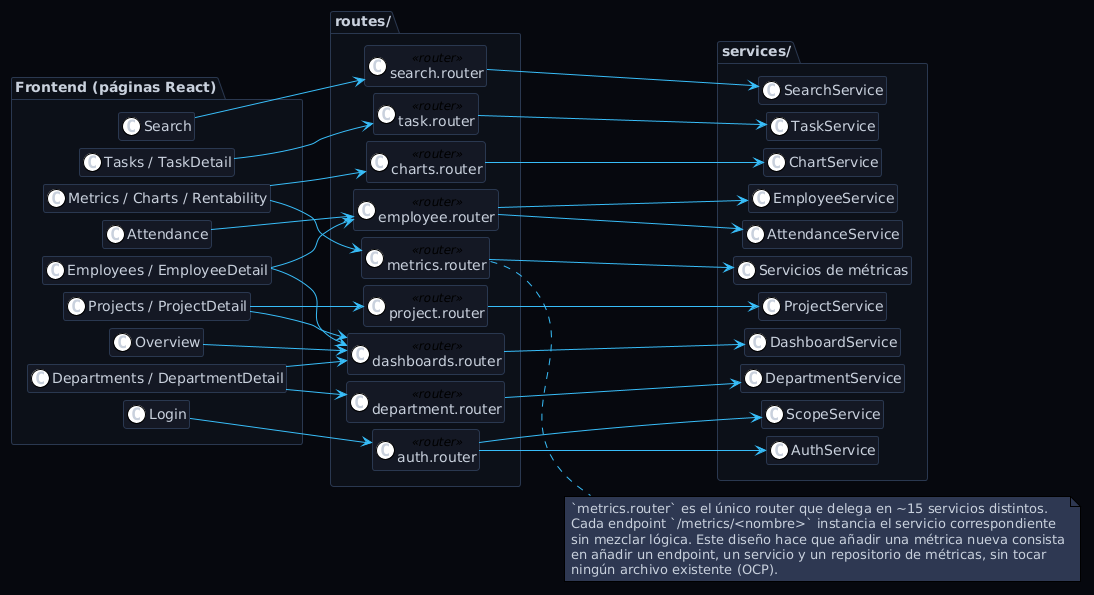
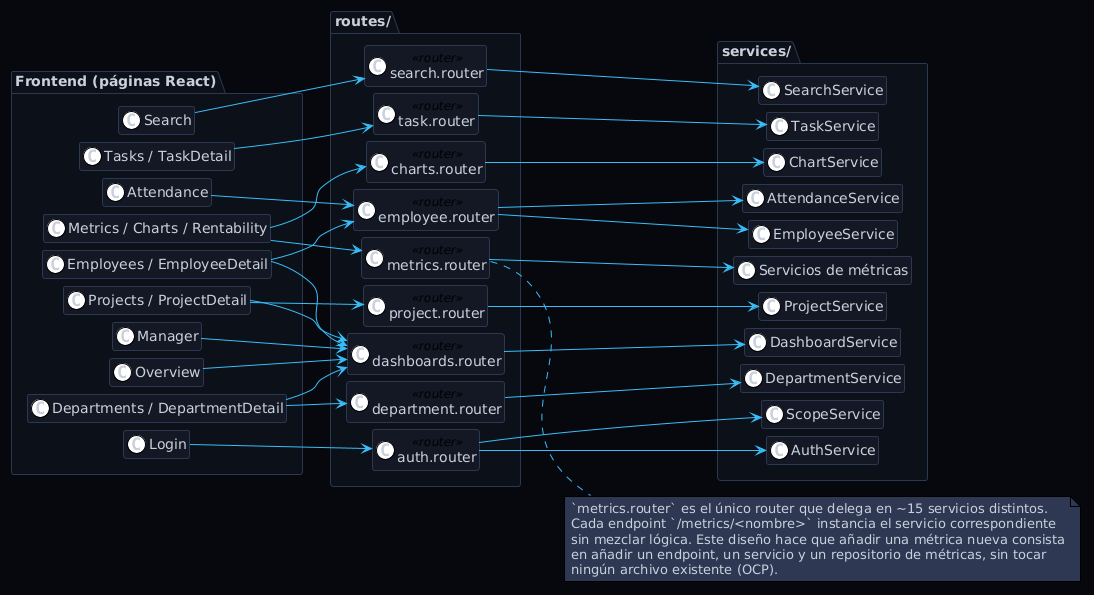
actyualización de los diagramas de contexto y el detalle del caso de uso 21

diff --git a/Estudiantes/cesar-garcia-eguiguren/Capítulo-2/DisciplinaDeRequisitos.md b/Estudiantes/cesar-garcia-eguiguren/Capítulo-2/DisciplinaDeRequisitos.md
@@ -52,7 +52,7 @@ Los CU de resumen son el panel analítico de cada entidad: agregan indicadores, 
 
 ### 1.3 Lista de casos de uso
 
-El sistema se organiza en **10 paquetes funcionales** que agrupan los **21 casos de uso** identificados. Los CUs marcados con ★ son exclusivos del rol *Director*; el resto están disponibles para ambos actores (*Director* y *Responsable*) con el filtrado de ámbito que corresponda a cada uno.
+El sistema se organiza en **9 paquetes funcionales** que agrupan los **21 casos de uso** identificados. Los CUs marcados con ★ son exclusivos del rol *Director*; el resto están disponibles para ambos actores (*Director* y *Responsable*) con el filtrado de ámbito que corresponda a cada uno.
 
 | Paquete | CU | Nombre | Director | Responsable |
 |---|---|---|---|---|
@@ -118,39 +118,39 @@ Ambos actores comparten la mayoría de los casos de uso. El Director tiene acces
 
 #### Prioridad Alta (A) — MVP imprescindible
 
-| CU | Nombre | Justificación |
-|---|---|---|
-| CU-01 | Autenticarse | Sin autenticación no hay sistema. Puerta de entrada. |
-| CU-02 | Listar empleados | Dato base para todos los paneles de empleado. |
-| CU-03 | Resumen de empleado | Vista canónica de consulta operativa diaria. |
-| CU-06 | Listar proyectos | Dato base para paneles de proyecto y rentabilidad. |
-| CU-07 | Resumen de proyecto | Vista canónica sobre el estado de un proyecto. |
-| CU-08 | Listar tareas | Consulta operativa de alta frecuencia. |
-| CU-10 | Consultar métrica operativa | Indicadores que guían la decisión diaria. |
-| CU-13 | Rentabilidad financiera ★ | Indicador económico global del Director. |
-| CU-17 | Guardar snapshot | Permite persistir el estado para seguimiento histórico. |
+| CU | Nombre | Criticidad | Valor de negocio | Frecuencia | Riesgo técnico | Justificación |
+|---|---|:---:|:---:|:---:|:---:|---|
+| CU-01 | Autenticarse | 3 | 3 | 3 | 2 | Sin autenticación no hay sistema. Puerta de entrada. |
+| CU-02 | Listar empleados | 3 | 2 | 3 | 1 | Dato base para todos los paneles de empleado. |
+| CU-03 | Resumen de empleado | 2 | 3 | 3 | 2 | Vista canónica de consulta operativa diaria. |
+| CU-06 | Listar proyectos | 3 | 2 | 3 | 1 | Dato base para paneles de proyecto y rentabilidad. |
+| CU-07 | Resumen de proyecto | 2 | 3 | 3 | 2 | Vista canónica sobre el estado de un proyecto. |
+| CU-08 | Listar tareas | 2 | 3 | 3 | 2 | Consulta operativa de alta frecuencia. |
+| CU-10 | Consultar métrica operativa | 2 | 3 | 3 | 3 | Indicadores que guían la decisión diaria. |
+| CU-13 | Rentabilidad financiera ★ | 2 | 3 | 2 | 3 | Indicador económico global del Director. |
+| CU-21 | Consultar carga de trabajo de equipo | 2 | 3 | 2 | 2 | Control de la carga de trabajo de los empleados. |
+| CU-17 | Guardar snapshot | 1 | 3 | 2 | 2 | Permite persistir el estado para seguimiento histórico. |
 
 #### Prioridad Media (M) — complementarios
 
-| CU | Nombre | Justificación |
-|---|---|---|
-| CU-04 | Listar departamentos | Exploración por estructura organizativa. |
-| CU-05 | Resumen de departamento | Soporte al análisis de carga agregada. |
-| CU-09 | Detalle de tarea | Profundización puntual sobre una tarea. |
-| CU-11 | Gráficos analíticos | Análisis visual complementario. |
-| CU-21 | Consultar carga de trabajo de equipo | Control de la carga de trabajo de los empleados |
-| CU-12 | Asistencia vs imputaciones | Control de coherencia horaria. |
-| CU-14 | Líneas analíticas ★ | Desglose contextual sobre rentabilidad. |
-| CU-18 | Listar snapshots | Consumo del histórico persistido. |
-| CU-19 | Detalle de snapshot | Reconstrucción de vistas guardadas. |
+| CU | Nombre | Criticidad | Valor de negocio | Frecuencia | Riesgo técnico | Justificación |
+|---|---|:---:|:---:|:---:|:---:|---|
+| CU-04 | Listar departamentos | 2 | 2 | 2 | 1 | Exploración por estructura organizativa. |
+| CU-05 | Resumen de departamento | 2 | 2 | 2 | 2 | Soporte al análisis de carga agregada. |
+| CU-09 | Detalle de tarea | 1 | 2 | 2 | 1 | Profundización puntual sobre una tarea. |
+| CU-11 | Gráficos analíticos | 1 | 2 | 2 | 2 | Análisis visual complementario. |
+| CU-12 | Asistencia vs imputaciones | 1 | 2 | 2 | 2 | Control de coherencia horaria. |
+| CU-14 | Líneas analíticas ★ | 1 | 2 | 1 | 1 | Desglose contextual sobre rentabilidad. |
+| CU-18 | Listar snapshots | 1 | 2 | 1 | 1 | Consumo del histórico persistido. |
+| CU-19 | Detalle de snapshot | 1 | 2 | 1 | 1 | Reconstrucción de vistas guardadas. |
 
 #### Prioridad Baja (B) — opcionales
 
-| CU | Nombre | Justificación |
-|---|---|---|
-| CU-15 | Búsqueda global | Atajo de navegación; no imprescindible. |
-| CU-16 | Cerrar sesión | Deseable pero no bloqueante. |
-| CU-20 | Eliminar snapshot | Operación excepcional; uso puntual. |
+| CU | Nombre | Criticidad | Valor de negocio | Frecuencia | Riesgo técnico | Justificación |
+|---|---|:---:|:---:|:---:|:---:|---|
+| CU-15 | Búsqueda global | 1 | 1 | 2 | 1 | Atajo de navegación; no imprescindible. |
+| CU-16 | Cerrar sesión | 1 | 1 | 1 | 1 | Deseable pero no bloqueante. |
+| CU-20 | Eliminar snapshot | 1 | 1 | 1 | 1 | Operación excepcional; uso puntual. |
 
 ---
 
@@ -662,8 +662,33 @@ Todos los casos de uso están documentados en detalle en: [Disciplina de Requisi
 
 ---
 
-### CU-21 - Consultar Carga de Trabajo del Equipo
+### CU-21 – Consultar Distribución de Carga del Equipo
 
+| Campo | Valor |
+|---|---|
+| **Actores** | Director, Responsable |
+| **Precondición** | CU-01 completado. |
+| **Postcondición** | El actor conoce la distribución de carga de su equipo y puede navegar al perfil de cualquier empleado. |
+
+![Diagrama de flujo](./imagenes/CdU/flujoCU21.png)
+
+**Flujo principal:**
+1. El actor accede al panel de gestión de equipo.
+2. El sistema calcula la distribución del equipo según el ámbito del actor y clasifica a cada empleado en una de cuatro categorías: sobrecargado, normal, subcargado o sin tareas asignadas.
+3. El sistema muestra cinco tarjetas numéricas clicables: total de empleados, sobrecargados, en carga normal, subcargados y sin tareas.
+4. El sistema muestra el ranking de los cinco empleados con mayor porcentaje de carga y un gráfico de barras horizontal con la distribución por estado.
+5. El actor puede filtrar por departamento para acotar el análisis a un área concreta.
+6. El actor selecciona una tarjeta de estado y el sistema despliega el listado paginado de empleados en ese estado, con su porcentaje de carga, horas pendientes y número de tareas pendientes.
+7. El actor puede ordenar el listado por cualquier columna y navegar por las páginas de resultados.
+8. El actor selecciona un empleado del listado para acceder a su resumen detallado.
+
+**Flujos alternativos:**
+- `FA-01`: No existen empleados en el estado seleccionado → estado vacío con mensaje informativo.
+- `FA-02`: Filtro de departamento activo → el sistema recalcula toda la distribución limitándola a los empleados del departamento elegido.
+
+**Observación:** Este caso de uso tiene su propia página dedicada (`/manager`) y actúa como punto de entrada a la supervisión de equipo. Se diferencia de CU-10 (Consultar Métrica Operativa) en que no forma parte del catálogo de métricas parametrizadas, sino que ofrece una vista de gestión agregada y navegable del estado del equipo, con paginación server-side. El cálculo de carga que subyace es el mismo que CU-10.4 (Workload individual), pero aplicado sobre todos los empleados del ámbito simultáneamente.
+
+**Relaciones:** Navega a CU-03 (al seleccionar un empleado del listado).
 
 ---
 ## 4. Prototipar Casos de Uso

diff --git a/Estudiantes/cesar-garcia-eguiguren/Capítulo-3/Análisis.md b/Estudiantes/cesar-garcia-eguiguren/Capítulo-3/Análisis.md
@@ -52,14 +52,14 @@ La única excepción a esta restricción es el subsistema de capturas, que persi
 
 Esta sección describe qué sucede en cada caso de uso desde el punto de vista del actor. Para cada CU se indica el actor que lo inicia, los datos de entrada que proporciona y la información que el sistema devuelve. Siguiendo el principio RUP de trazabilidad entre disciplinas, en esta fase se profundiza en el flujo principal del caso de uso, preparando el terreno para el diseño detallado que se abordará en el capítulo siguiente.
 
-Tras la aplicación de los principios de consolidación RUP documentados en el Capítulo 2, el sistema cuenta con **20 casos de uso** organizados en 10 paquetes funcionales.
+Tras la aplicación de los principios de consolidación RUP documentados en el Capítulo 2, el sistema cuenta con **21 casos de uso** organizados en 9 paquetes funcionales.
 
 ### 2.1 Actores
 
 | Actor | CUs disponibles | Descripción |
 |---|---|---|
-| **Director** | 20 | Acceso total. Ve datos de toda la organización: todos los empleados, proyectos, departamentos y métricas financieras. |
-| **Responsable** | 17 | Acceso restringido a su ámbito (empleados de su equipo, proyectos que gestiona, departamentos a su cargo). No puede eliminar snapshots ni acceder a los casos de uso exclusivos de Rentabilidad Financiera (CU-13 y CU-14). |
+| **Director** | 21 | Acceso total. Ve datos de toda la organización: todos los empleados, proyectos, departamentos y métricas financieras. |
+| **Responsable** | 18 | Acceso restringido a su ámbito (empleados de su equipo, proyectos que gestiona, departamentos a su cargo). No puede eliminar snapshots ni acceder a los casos de uso exclusivos de Rentabilidad Financiera (CU-13 y CU-14). |
 
 ### 2.2 Casos de uso del sistema
 
@@ -110,8 +110,8 @@ Tras la aplicación de los principios de consolidación RUP documentados en el C
 
 **CU-10 — Consultar métrica operativa**
 - Actor: Director, Responsable
-- Entrada: nombre de la métrica (productividad, cumplimiento, WIP, carga de trabajo, riesgo, retrabajo, estimación, lead time, tiempo por estado, tareas canceladas, tiempo por prioridad, eficiencia de proyecto, distribución por cliente…) y los parámetros contextuales que esa métrica requiera (empleado, proyecto, departamento, rango de fechas, modo solo tareas raíz)
-- Salida: indicador calculado con su representación y gráficos de apoyo específicos de la métrica seleccionada. El modo carga de trabajo admite parámetros individuales (empleado concreto) o agregados de equipo (departamento o sin parámetro). El sistema verifica el ámbito del actor sobre los parámetros antes de calcular.
+- Entrada: nombre de la métrica (productividad, cumplimiento, WIP, carga de trabajo individual, riesgo, retrabajo, estimación, lead time, tiempo por estado, tareas canceladas, tiempo por prioridad, eficiencia de proyecto, distribución por cliente…) y los parámetros contextuales que esa métrica requiera (empleado, proyecto, departamento, rango de fechas, modo solo tareas raíz)
+- Salida: indicador calculado con su representación y gráficos de apoyo específicos de la métrica seleccionada. El sistema verifica el ámbito del actor sobre los parámetros antes de calcular.
 
 **CU-11 — Consultar gráficos analíticos**
 - Actor: Director, Responsable
@@ -163,7 +163,12 @@ Tras la aplicación de los principios de consolidación RUP documentados en el C
 - Entrada: identificador de la captura y tipo de colección
 - Salida: confirmación de eliminación permanente del documento.
 
-> **Nota sobre consolidaciones.** CU-10 absorbe las métricas operativas y el panel de supervisión de equipo; CU-14 unifica la consulta de líneas de proyecto y líneas de cliente; y CU-17 absorbe la semántica de actualización mediante semántica de actualización diaria.
+**CU-21 — Consultar distribución de carga del equipo**
+- Actor: Director, Responsable
+- Entrada: filtros opcionales (departamento, estado de carga, página, ordenación)
+- Salida: cinco contadores de estado clicables (total, sobrecargado, normal, subcargado, sin tareas), ranking de los cinco empleados más cargados, gráfico de barras de distribución por estado y, al seleccionar un estado, listado paginado de empleados en ese estado con su porcentaje de carga, horas pendientes y número de tareas pendientes. El ámbito del JWT determina qué empleados son visibles: el Responsable ve únicamente los empleados de su equipo; el Director ve todos. El cálculo delega en `GET /dashboards/summary/manager` con paginación server-side.
+
+> **Nota sobre consolidaciones.** CU-10 absorbe las métricas operativas individuales; su endpoint es `/metrics/<nombre>` y opera siempre sobre un empleado o proyecto concreto. El panel de supervisión de equipo se modela como CU-21, con su propia página (`/manager`) y su propio endpoint (`/dashboards/summary/manager`), porque su función es distinta: ofrece una vista agregada y navegable del estado del equipo, con acceso directo a los perfiles de empleado, no un cálculo parametrizado de una métrica individual. CU-14 unifica la consulta de líneas de proyecto y líneas de cliente; y CU-17 unifica la semántica de actualización y creación mediante un máximo de 1 snapshot diaria.
 
 ---
 
@@ -227,8 +232,8 @@ Siguiendo la metodología RUP, las clases se clasifican en tres estereotipos:
 | Principal | `Departments` / `DepartmentDetail` | Ambos | CU-04, CU-05 |
 | Principal | `Projects` / `ProjectDetail` | Ambos | CU-06, CU-07 |
 | Principal | `Tasks` / `TaskDetail` | Ambos | CU-08, CU-09 |
-| Principal | `Metrics` / `MetricDetail` | Ambos | CU-10 (modo individual) |
-| Principal | `Manager` | Ambos | CU-10 (modo agregado de equipo) |
+| Principal | `Metrics` / `MetricDetail` | Ambos | CU-10 |
+| Principal | `Manager` | Ambos | CU-21 |
 | Principal | `Attendance` | Ambos | CU-12 |
 | Principal | `Rentability` | Director | CU-13, CU-14 |
 | Principal | `Charts` | Ambos | CU-11 |
@@ -249,8 +254,8 @@ Siguiendo la metodología RUP, las clases se clasifican en tres estereotipos:
 | `department.router` | CU-04, CU-05 | Servicio de departamentos |
 | `project.router` | CU-06, CU-07 | Servicio de proyectos |
 | `task.router` | CU-08, CU-09 | Servicio de tareas |
-| `metrics.router` | CU-10 y CU-12 | Servicios de métricas y servicio de asistencia |
-| `dashboards.router` | CU-03, CU-05, CU-07, CU-10 en modo equipo, CU-13 y CU-14 | Servicio de dashboards y servicio de rentabilidad |
+| `metrics.router` | CU-10, CU-12, CU-13 y CU-14 | Servicios de métricas, asistencia, rentabilidad |
+| `dashboards.router` | CU-03, CU-05, CU-07, CU-21| Servicio de dashboards|
 | `charts.router` | CU-11 | Servicio de gráficos |
 | `search.router` | CU-15 | Servicio de búsqueda |
 | `snapshots.router` | CU-17, CU-18, CU-19, CU-20 | Servicio de capturas |

diff --git a/Estudiantes/cesar-garcia-eguiguren/Capítulo-2/docs/CasosDeUsoDetallados.md b/Estudiantes/cesar-garcia-eguiguren/Capítulo-2/docs/CasosDeUsoDetallados.md
@@ -501,3 +501,33 @@
 **Observación:** El borrado es definitivo, sin papelera ni versiones previas. Tras el borrado, volver a guardar el mismo día con los mismos parámetros crea una snapshot nueva a través de CU-17.
 
 **Relaciones:** Ninguna.
+
+---
+
+## CU-21 – Consultar Distribución de Carga del Equipo
+
+| Campo | Valor |
+|---|---|
+| **Actores** | Director, Responsable |
+| **Precondición** | CU-01 completado. |
+| **Postcondición** | El actor conoce la distribución de carga de su equipo y puede navegar al perfil de cualquier empleado. |
+
+![Diagrama de flujo](../imagenes/CdU/flujoCU21.png)
+
+**Flujo principal:**
+1. El actor accede al panel de gestión de equipo.
+2. El sistema calcula la distribución del equipo según el ámbito del actor y clasifica a cada empleado en una de cuatro categorías: sobrecargado, normal, subcargado o sin tareas asignadas.
+3. El sistema muestra cinco tarjetas numéricas clicables: total de empleados, sobrecargados, en carga normal, subcargados y sin tareas.
+4. El sistema muestra el ranking de los cinco empleados con mayor porcentaje de carga y un gráfico de barras horizontal con la distribución por estado.
+5. El actor puede filtrar por departamento para acotar el análisis a un área concreta.
+6. El actor selecciona una tarjeta de estado y el sistema despliega el listado paginado de empleados en ese estado, con su porcentaje de carga, horas pendientes y número de tareas pendientes.
+7. El actor puede ordenar el listado por cualquier columna y navegar por las páginas de resultados.
+8. El actor selecciona un empleado del listado para acceder a su resumen detallado.
+
+**Flujos alternativos:**
+- `FA-01`: No existen empleados en el estado seleccionado → estado vacío con mensaje informativo.
+- `FA-02`: Filtro de departamento activo → el sistema recalcula toda la distribución limitándola a los empleados del departamento elegido.
+
+**Observación:** Este caso de uso tiene su propia página dedicada (`/manager`) y actúa como punto de entrada a la supervisión de equipo. Se diferencia de CU-10 (Consultar Métrica Operativa) en que no forma parte del catálogo de métricas parametrizadas, sino que ofrece una vista de gestión agregada y navegable del estado del equipo, con paginación server-side. El cálculo de carga que subyace es el mismo que CU-10.4 (Workload individual), pero aplicado sobre todos los empleados del ámbito simultáneamente.
+
+**Relaciones:** Navega a CU-03 (al seleccionar un empleado del listado).
